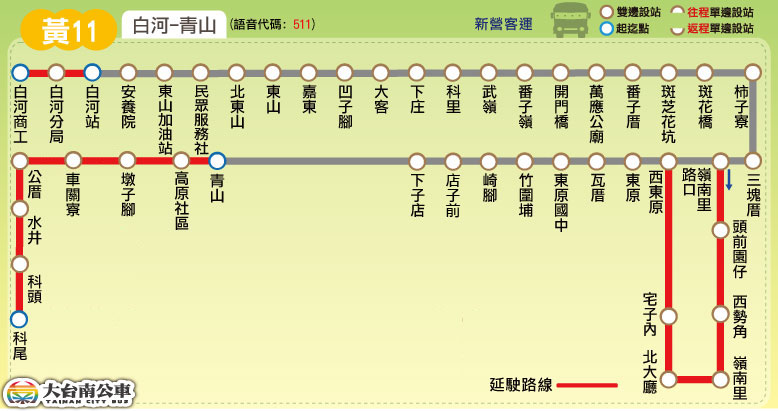
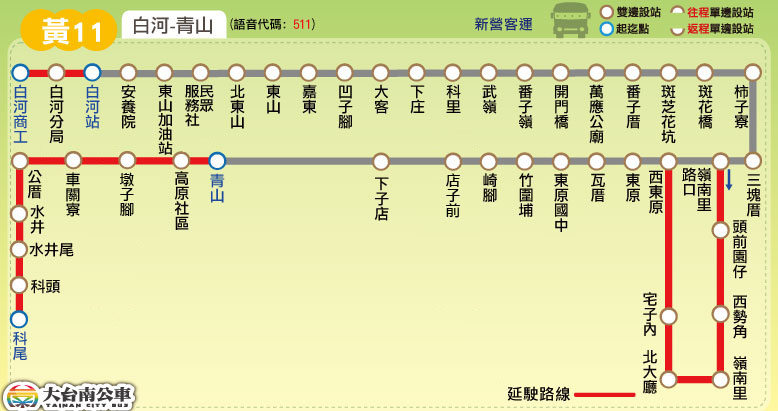
新增站位：黃11(增「水井尾」)、黃11-1(增「水井尾」、「高原里」)

diff --git a/route/fare_and_time/yellow_11_1.js b/route/fare_and_time/yellow_11_1.js
@@ -9,7 +9,7 @@ yellow_11_1_interval_stop = [
 ["三塊厝","嶺南里路口","西東原","東原"], // 東原
 ["瓦厝","東原國中","竹圍埔"], // 瓦厝
 ["崎腳"], // 崎腳
-["店子前","下子店","青山","高原社區","墩子腳","車關寮","公厝","水井","科頭","科尾","李子園路口","碌砳埔"], // 青山
+["店子前","下子店","青山","高原社區","墩子腳","車關寮","公厝","水井","水井尾","科頭","科尾","高原里","李子園路口","碌砳埔"], // 青山
 ["北寮","中庄"], // 北寮
 ["穆聖","李子園小舖","李子園","福安宮","半山仔"], // 李子園
 ["檳榔宅"], // 檳榔宅

diff --git a/route/fare_and_time/yellow_11.js b/route/fare_and_time/yellow_11.js
@@ -9,7 +9,7 @@ yellow_11_interval_stop = [
 ["三塊厝","嶺南里路口","頭前園仔","西勢角","嶺南里","北大廳","宅子內","西東原","東原"], // 東原
 ["瓦厝","東原國中","竹圍埔"], // 瓦厝
 ["崎腳"], // 崎腳
-["店子前","下子店","青山","高原社區","墩子腳","車關寮","公厝","水井","科頭","科尾"] // 青山
+["店子前","下子店","青山","高原社區","墩子腳","車關寮","公厝","水井","水井尾","科頭","科尾"] // 青山
 ];
 yellow_11_fare = [
 [26],
